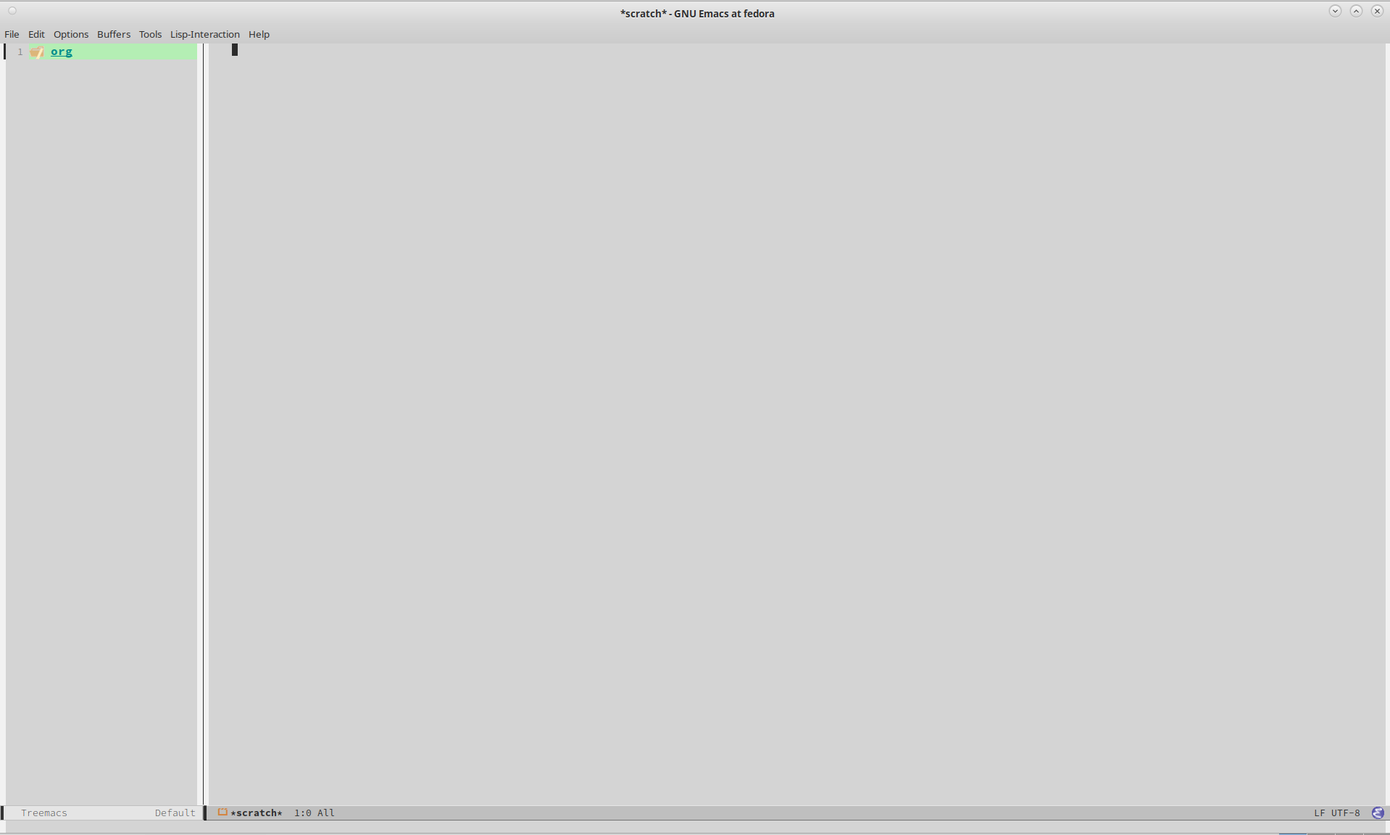
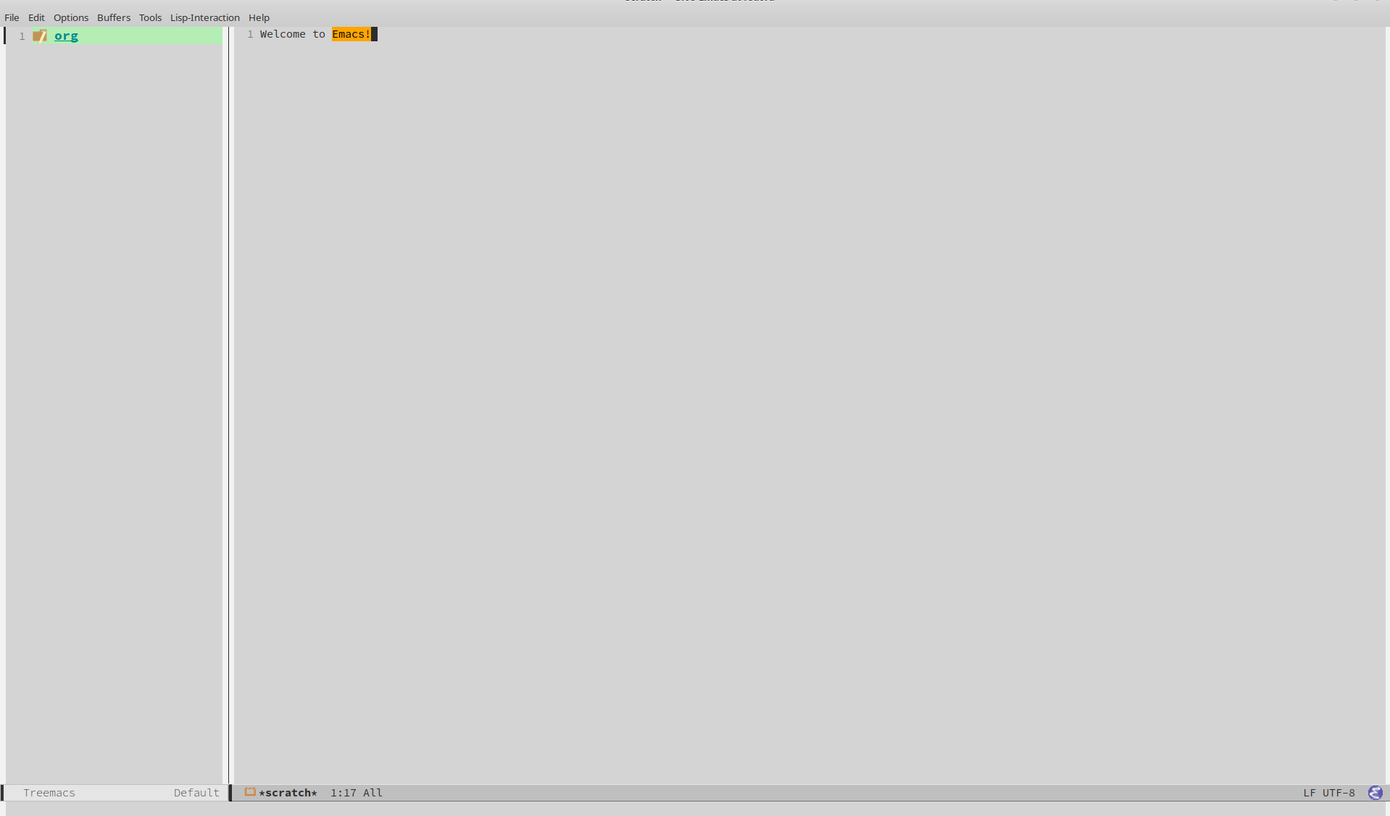
More images

Changed region(s): [[0.0, 0.0, 1.0, 1.0], [0.4307, 0.0, 0.5537, 0.0311], [0.9844, 0.0311, 1.0, 0.0622]]

diff --git a/README.md b/README.md
@@ -1,30 +1,30 @@
 
 # Table of Contents
 
-1.  [Welcome New Org Mode Users](#orgc13201f)
-2.  [What Is This And Why Do I Need It?](#org4c54fc1)
-3.  [About This Repo](#orga9b44a5)
-    1.  [Overview](#orga7ddfc7)
-    2.  [Installation](#org2403acc)
-4.  [I've Installed It, Now What?](#org8bff8c2)
-    1.  [An Intro to this Org Mode Tutorial](#org8114e12)
-    2.  [Tracking Work with TODOs](#orgacaafd9)
-    3.  [Understanding the Agenda](#org589d1c5)
-    4.  [Using Capture Templates](#org14909b1)
-5.  [A Practical Walkthrough](#orgbcc884e)
-    1.  [Monday Morning Meeting](#org4fe37b4)
-    2.  [Filling in the Action Items](#orge64c50b)
-    3.  [View the Agenda](#org8235d22)
-    4.  [Start Working on TODO #1](#orga0489b3)
-    5.  [Start Working on TODO #2](#org983779b)
-    6.  [Start Working on TODO #3](#org1244139)
-    7.  [A New TODO](#org79e86c5)
-    8.  [Working the TODO](#org31f0052)
-    9.  [Make a note](#orgc3407b4)
-    10. [Record a journal entry](#orgb1331c8)
-    11. [Filtering Tags](#org4d624ff)
-6.  [Keyboard Shortcuts List](#org520e9c1)
-7.  [Beyond This Tutorial](#org0ea5ce4)
+1.  [Welcome New Org Mode Users](#orgc60bfa3)
+2.  [What Is This And Why Do I Need It?](#orgc4ba2a9)
+3.  [About This Repo](#org6842482)
+    1.  [Overview](#org6cf865a)
+    2.  [Installation](#orgff0b7ff)
+4.  [I've Installed It, Now What?](#org43669fc)
+    1.  [An Intro to this Org Mode Tutorial](#org811547a)
+    2.  [Tracking Work with TODOs](#org5774640)
+    3.  [Understanding the Agenda](#org3a63073)
+    4.  [Using Capture Templates](#org36f1d25)
+5.  [A Practical Walkthrough](#orgcdb89fc)
+    1.  [Monday Morning Meeting](#org58a7ac1)
+    2.  [Filling in the Action Items](#orgb0220d9)
+    3.  [View the Agenda](#org3e6166e)
+    4.  [Start Working on TODO #1](#org161807e)
+    5.  [Start Working on TODO #2](#org2d9233b)
+    6.  [Start Working on TODO #3](#org02755e1)
+    7.  [A New TODO](#orge287266)
+    8.  [Working the TODO](#org5424305)
+    9.  [Make a note](#orgedbc619)
+    10. [Record a journal entry](#orgbf6d813)
+    11. [Filtering Tags](#orgf3669fe)
+6.  [Keyboard Shortcuts List](#org6b70fb6)
+7.  [Beyond This Tutorial](#org3f2c726)
 
 ****Quick Start Guide****
 
@@ -36,7 +36,7 @@ For more details see below, but this is the minimum you need to make this work.
 4.  You are done, now restart `emacs` and take a look at the shortcut guide below
 
 
-<a id="orgc13201f"></a>
+<a id="orgc60bfa3"></a>
 
 # Welcome New Org Mode Users
 
@@ -45,7 +45,7 @@ So you want to use Org Mode, but you don't have 2 years to devote to teaching yo
 If you came here looking for a more in depth explanation of some of Org Mode's core features, please check out the very detailed write up I did in my [Emacs Org Mode Tutorial](https://github.com/james-stoup/emacs-org-mode-tutorial/). For the new people, you don't need to read that document (it is huge and can be daunting) as it is designed for people who want to really customize their Org Mode configurations. However, it does provide a lot of useful explanations with screenshots, so maybe come back to it once you've gotten some more experience with Org Mode.
 
 
-<a id="org4c54fc1"></a>
+<a id="orgc4ba2a9"></a>
 
 # What Is This And Why Do I Need It?
 
@@ -56,14 +56,14 @@ The good news is that Org Mode "just works" right out of the box. The bad news i
 I sent them the link I put above so they could check out my tutorial on designing your Org Mode configuration from scratch, but they didn't want that. In fact, they had no idea what they wanted. The only thing they were sure of was that they wanted it to be functional now. Not in a year, not after they had learned lisp, right now. So what I did was massively pare down my own Emacs configuration until it was a lean setup geared entirely towards Org Mode. No code completion, language servers, linters, git integration, or anything else that wasn't directly related to Org Mode. Then I further cleaned it up to make it as easy to use as possible. Finally, I helped them install this new config and gave them some minimal instructions on how to use it. Guess what? They loved it. And based on their response I realized that there were probably a lot of people who would appreciate a little help getting started with Org Mode. So if that is you, I think this repo might help you.
 
 
-<a id="orga9b44a5"></a>
+<a id="org6842482"></a>
 
 # About This Repo
 
 This repo is designed to help brand new Emacs users become productive in Org Mode. This is not an Emacs tutorial, nor is it meant as an all encompassing Org Mode tutorial. I will explain all the basic key commands you will need to get started, but this is not a substitute for reading the [Official Org Mode Manual](https://orgmode.org/manual/).
 
 
-<a id="orga7ddfc7"></a>
+<a id="org6cf865a"></a>
 
 ## Overview
 
@@ -93,21 +93,21 @@ Here is a list of most of the primary enhancements provided:
 -   better bullets
 
 
-<a id="org2403acc"></a>
+<a id="orgff0b7ff"></a>
 
 ## Installation
 
 To make your version of Emacs and Org Mode look like the screenshots below, download the `.emacs` file in this repo and either copy it into your existing `.emacs` file or overwrite it entirely. Then restart Emacs, open (or create) an Org file and you should a much nicer looking version of Org. To verify Org looks different you can download the `org-better-defaults.org` file in this repo and open it.
 
 
-<a id="org8bff8c2"></a>
+<a id="org43669fc"></a>
 
 # I've Installed It, Now What?
 
 If you've already installed the config file and restarted Emacs, then it is time to begin your journey into productivity! Here are your next steps. First, finish reading this section so you understand the broad concepts that will be discussed here. Then, once you have a rough idea of the concepts, work your way through the tutorial so you can understand how someone might apply those concepts to real world tasks.
 
 
-<a id="org8114e12"></a>
+<a id="org811547a"></a>
 
 ## An Intro to this Org Mode Tutorial
 
@@ -122,7 +122,7 @@ To start off we are going to talk briefly about the three core concepts that mak
 Each of these topics will be covered below in more detail and by the end of this document, you should have a good idea of how to use the basics of Org Mode.
 
 
-<a id="orgacaafd9"></a>
+<a id="org5774640"></a>
 
 ## Tracking Work with TODOs
 
@@ -142,7 +142,7 @@ Here is what it looks like with the Org Mode Better Defaults:
 ![better defaults](images/image-5-better-defaults.png)
 
 
-<a id="org589d1c5"></a>
+<a id="org3a63073"></a>
 
 ## Understanding the Agenda
 
@@ -150,12 +150,12 @@ The agenda is a way of viewing all of your TODOs in one easy to read view. The a
 
 Here is an example of the agenda in action.
 
-<pic of the agenda view>
+![agenda view](images/image-11-agenda-view-small.png)
 
 To bring up the Agenda hit `C-c a` and then select the agenda view you want to use. To follow along with this tutorial, use the `Daily Agenda and All TODOs` option by typing `d` at the agenda prompt. Don't worry if this doesn't seem to make sense right now. This section only contains brief explanations of what the core concepts, not a detailed breakdown of every feature. In the Practical Walkthrough section below all of the steps needed to interact with Org Mode will be clearly labeled so that even a total novice can use it.
 
 
-<a id="org14909b1"></a>
+<a id="org36f1d25"></a>
 
 ## Using Capture Templates
 
@@ -173,7 +173,7 @@ Welcome to Capture Templates. This is a built-in way of bringing up a list of te
 Each one captures a specific type of data into a different org file. To access a capture template first press `C-c c` to bring up the list of available templates. Then press the letter designating the template you want to launch. The shortcut letters are shown beside their template in the list above.
 
 
-<a id="orgbcc884e"></a>
+<a id="orgcdb89fc"></a>
 
 # A Practical Walkthrough
 
@@ -183,10 +183,10 @@ In this example scenario it is Monday morning and you are about to have a meetin
 
 To start this tutorial just launch Emacs. You don't have to open a specific file because the Org Mode Capture Template can be invoked from anywhere. Once you launch Emacs you will see two panes in the window. On the left you will Treemacs showing you a folder named `org` and on the right you will see the `*scratch*` window with the message "Welcome to Emacs!" Click in that pane. This is where you will be doing most of your interaction for this tutorial.
 
-<FRESH EMACS INSTALL PIC>
+![fresh install](images/image-6-blank-slate.png)
 
 
-<a id="org4fe37b4"></a>
+<a id="org58a7ac1"></a>
 
 ## Monday Morning Meeting
 
@@ -194,11 +194,11 @@ It is Monday morning and you are about to join a meeting with your boss along wi
 
 Start by pressing the `Control` key and then while you are still pressing it, press the `c` key. Release both keys. Once you do that, press the `c` key again. This will launch the Capture Template. To make reading this easier, future key combinations will be represented in the standard Emacs form. In this case, the key combination would be written as `C-c c` which is read as "press Control and c, then release both keys, then press c".
 
-<CAPTURE TEMPLATE PIC>
+![the capture template](images/image-7-capture-template.png)
 
 Once you have launched the Capture Template you will be given a choice of four templates to choose from. Since we want to create a new meeting item, press the `m` to select a new Meeting. Once you do this you will notice a strange looking Meeting template appear and the mini buffer will become active with the label `Tags:`. For this example just type in `planning` and hit return.
 
-<INTERMEDIATE CAPTURE TEMPLATE PIC>
+![setting tags for a new meeting](images/image-8-new-meeting.png)
 
 At this point you will see an empty (but properly formatted) meeting template with the cursor located at the top heading. Enter a title for your meeting. Since this is a planning meeting let's call it `Purchase planning`. After that you see a dash under the heading `Attendees`. Put your cursor on that line and enter the name of the person leading the meeting, which would be your boss, Alice. After you type `Alice` press return and you will notice another dash has appeared. Go ahead and type `Bob` and hit return. Round out the list with your final coworker `Carla` and then hit return twice to stop making a list.
 
@@ -207,7 +207,7 @@ Now the meeting has started so navigate to the `Notes` section and begin filling
 At the end of the meeting Alice tasks you with getting the numbers from Bob and Carla, checking our available funds, and writing up a recommendation to her by 11am Thursday morning. Now that we know what our tasking is, we need to decide how we should store this info. Thankfully our meeting template has one more heading, `Action Items`! Action Items are tasks that get assigned to us in meetings. Not every meeting will produce Action Items, so for those that don't we can just delete those lines before we save our meeting.
 
 
-<a id="orge64c50b"></a>
+<a id="orgb0220d9"></a>
 
 ## Filling in the Action Items
 
@@ -217,42 +217,56 @@ For the next TODO type `C-return` to start a new heading and then type in `TODO 
 
 Once again type in the TODO template that you used for the previous item. The title of this TODO will be `Compile results and send final report to Alice`. Hit return to get to the details of this TODO and add the lines `Collect all relevant data, summarize it, add my recommendations, and then email it to Alice before 11am on Thursday.` By the end you should have something that looks like this:
 
-<PIC OF MEETING BEFORE FILING>
+![filling out the meeting](images/image-9-filling-out-a-meeting.png)
 
 Now that all the action items have been finished and the meeting is over, we can save this meeting. To do that hit `C-c C-c` and it will file it away. Once you do that you will see a new file appear underneath the org folder on the left. This new file called `meetings.org` was created when you saved your new meeting.
 
 
-<a id="org8235d22"></a>
+<a id="org3e6166e"></a>
 
 ## View the Agenda
 
-At this point we have created a meeting and 3 TODOs, which means our Agenda View will now have something to display. Let's open up the Agenda View and see what it looks like. To launch the Agenda hit `C-c a` to bring up the Agenda selector and then press `d` to activate the Daily Agenda view. Your screen should now look like this:
+At this point we have created a meeting and 3 TODOs, which means our Agenda View will now have something to display. Let's open up the Agenda View and see what it looks like. To launch the Agenda hit `C-c a` to bring up the Agenda selector.
 
-<DAILY AGENDA AND ALL TODOS PIC>
+![agenda launcher](images/image-10-agenda-launcher.png)
 
-As you can see, the new TODO items we just created are there. Click into the Agenda view and move your cursor onto the line with your first TODO like so:
+Press `d` to activate the Daily Agenda view. Your screen should now look like this:
 
-<PIC OF CURSOR ON AGENDA>
+![agenda view](images/image-11-agenda-view.png)
 
-Once it is there, hit the `TAB` key and it should jump you to the source of the TODO. Any item in the Agenda view can always be followed back to its source. Remember, the Agenda View isn't really for editing things, it just compiles a list of things that already exist.
+As you can see, the new TODO items we just created are there. Click into the Agenda view and move your cursor onto the line with your first TODO. Once it is there, hit the `TAB` key and it should jump you to the source of the TODO.
+
+![agenda in use](images/image-12-agenda-in-use.png)
+
+Any item in the Agenda view can always be followed back to its source. Remember, the Agenda View isn't really for editing things, it just compiles a list of things that already exist.
 
 You might be wondering where the meeting you just created is. After all, you see the 3 action items, but where is the meeting that you were just in? Well, the meeting won't show up by default for reasons that you don't care about right now. However, there is a really useful setting we can turn on to show extra details. Navigate to the `Week-agenda` and put your cursor anywhere within the calendar. This won't work if your cursor is in the TODO sections as this is strictly a calendar setting. Once there, hit `v` to bring up the View options in the mini buffer. We want to enable the log view, so to do that, hit the `l` key. Now we see our meeting~ And as a bonus we also see the time we spent in this meeting. When you first started the capture template for the meeting a clock was started. When the meeting was saved (or filed) the clock stopped and the elapsed time was computed. The agenda view can then take this info and display it in a nicely formatted view. This is especially helpful when you have a week full of meetings. You can see at a glance how much time you spent in meetings and what those meetings involved. Hitting the `tab` key when on the same line as a meeting will take you to that entry.
 
 
-<a id="orga0489b3"></a>
+<a id="org161807e"></a>
 
 ## Start Working on TODO #1
 
-You should now have 3 different TODOs to visible in your Agenda. Let's start with the first one, requesting info from Bob. If it isn't open already, go ahead and open up the `meetings.org` file and navigate to the first TODO. Right now it is still in the `TODO` state, but since we are now working it, we need to change it's state. While your cursor is on that TODO heading (it can be anywhere on the line) hit `C-c C-t` to change the state. The mini buffer will pop up and give you a bunch of options you can change it to. In our case we want to set it to `IN-PROGRESS` so hit the `i` key. When that happens a new buffer will appear asking you to insert a note for the state change. At the prompt enter the text `Reaching out to Bob first` and hit `C-c C-c` to save the note.
+You should now have 3 different TODOs to visible in your Agenda. Let's start with the first one, requesting info from Bob. If it isn't open already, go ahead and open up the `meetings.org` file and navigate to the first TODO. Right now it is still in the `TODO` state, but since we are now working it, we need to change it's state. While your cursor is on that TODO heading (it can be anywhere on the line) hit `C-c C-t` to change the state. The mini buffer will pop up and give you a bunch of options you can change it to. In our case we want to set it to `IN-PROGRESS` so hit the `i` key.
+
+![changing from TODO to IN-PROGRESS](images/image-13-changing-todo-state.png)
+
+When that happens a new buffer will appear asking you to insert a note for the state change. At the prompt enter the text `Reaching out to Bob first` and hit `C-c C-c` to save the note.
+
+![adding a state change note](images/image-14-adding-state-change-note.png)
 
 Once you do this you should be returned to your original buffer where you can see that the TODO named `Get current stock levels from Bob` looks a lot different now. The state has changed from `TODO` to `IN-PROGRESS`, there is a timestamp denoting the state change, and now your note appeared too. Let's add some more details by navigating to the end of this TODO and hit return twice. On this new line we can add more notes. So enter our latest note `Emailed Bob and requested more info.` which describes the work we are doing. For the sake of this example we are going to assume you then opened up your company's email client and sent Bob an email asking for the specific data you needed for your report.
 
+![working TODO 1](images/image-15-work-in-progress.png)
+
 So far so good. We are making progress! Alas for us we get an auto generated email from Bob alerting us to the fact that Bob is out for the rest of the day due to a medical procedure. Since he won't return until tomorrow, we can't do anything else on this front. That shouldn't be a big problem though, since it is only Monday, he will be back on Tuesday, and the report is due Thursday, we still have time. Before we move on to another TODO item, we should really mark this to indicate what happened. To do that put your cursor back on the `IN-PROGRESS` line and hit `C-c C-t` to bring up the state change buffer. Now we are going to hit `b` to set it to blocked. Once again a we are going to add a note to describe this state change. So add the text `Bob is out of the office until tomorrow` and then hit `C-c C-c` to save it. Now our task is set to `BLOCKED` and we have a nice note describing why.
+
+![blocked by Bob](images/image-16-blocked-by-bob.png)
 
 If you click in the Org Agenda pane on the right and then press `r` it will refresh your view. Doing so will now show that your first TODO is blocked while the others remain in their default state. Since we can't do anything more here, let's move on to our next TODO item.
 
 
-<a id="org983779b"></a>
+<a id="org2d9233b"></a>
 
 ## Start Working on TODO #2
 
@@ -260,16 +274,26 @@ We hit a dead end on our first TODO so now we are moving on to the second task. 
 
 As we did before, navigate to the end of the body of this TODO, it return twice, and update it with what you are currently doing. Here we could add something like `Emailing Carla for her data while I wait for Bob to get back to me.` which summarizes the steps you are taking. Once again we assume that you contacted Carla over your company's email system and requested the information you require. However this time we are in luck because Carla responds fairly quickly with a link to the company's intranet where the data you want is stored. You click on the link, view the data, extract what you need, and add it to the Word document you working on. Of course, you could write everything in Org Mode and then export it to one of a dozen formats (and in fact this is what I do for my job) but for beginners I would use Org to track my notes and then something like Word to format the actual document.
 
+![adding a link to a TODO](images/image-17-link-to-doc.png)
+
 It is important to note that Carla sent us a very important piece of information (the URL to the document) that is only contained in her email. While this is fine for today's task, this might be a document we want to reference later. We could save it to our local file system, bookmark it in our browser, or flag the email, but all of those solutions lack context. It is incumbent on you to remember the details of why you have this file saved. We could just copy and past the URL into our notes, but there is a better solution.
 
 The URL in question is `http:intranet.company.com/financial/reports/Q3-reports.xls` and we want to save this to our current TODO. Start by copying the URL and then navigating to the end of the TODO. Hit return twice to start a new line and then type `C-c C-l` to create a new link. The mini buffer will appear with link options, but you are going to type `C-y` to paste your copied URL in. Once it is pasted, hit return. Now the mini buffer will prompt you to enter a description. Here you can type `Intranet link to Carla's planning document` and hit return. This is now a functioning URL that can be clicked on to open the link in your default web browser.
 
 Since Carla has responded with the information we needed and we logged the results of that conversation, this TODO is complete. All we should have to do is mark it as `DONE` and we can move to something else. To mark it as done go to the `IN-PROGRESS` line and hit `C-c C-t` to open up the state selector. From here type `d` to select done. Enter a note such as `Got everything I needed from Carla` and then hit `C-c C-c` to save it.
 
-At this point if you look in the Agenda view you will see your 1st TODO that is blocked and your 3rd TODO that you haven't started, but where is your 2nd TODO? The completed item is there, it just isn't shown by default. Move your cursor to somewhere in the Calendar (it won't work if you are in one of the TODO lists) and press `v` to bring up the view buffer. From there hit `l` to enable the log view. Now you will see two things. First, you will see your TODO item that you recently completed and second you will notice that your meeting has appeared! And as a bonus, the time you spent in this meeting appears beside it. You can easily filter your meetings to see how your week looks like as well as produce reports showing how much time you spend in meetings.
+![TODO 2 is done](images/image-18-todo-2-is-done.png)
+
+At this point if you look in the Agenda view you will see your 1st TODO that is blocked and your 3rd TODO that you haven't started, but where is your 2nd TODO? The completed item is there, it just isn't shown by default. Move your cursor to somewhere in the Calendar (it won't work if you are in one of the TODO lists) and press `v` to bring up the view buffer.
+
+![agenda view options](images/image-19-agenda-views.png)
+
+From there hit `l` to enable the log view. Now you will see two things. First, you will see your TODO item that you recently completed and second you will notice that your meeting has appeared! And as a bonus, the time you spent in this meeting appears beside it. You can easily filter your meetings to see how your week looks like as well as produce reports showing how much time you spend in meetings.
+
+![detailed agenda view](images/image-20-agenda-log-view.png)
 
 
-<a id="org1244139"></a>
+<a id="org02755e1"></a>
 
 ## Start Working on TODO #3
 
@@ -280,7 +304,7 @@ Start by navigating to the third and final action item called `Compile results a
 Now that the deadline has been added go ahead and set it to `IN-PROGRESS` just like we've done twice before. Add a note of your choice explaining what you started working on. After the state has been changed we could add additional notes to this TODO that might describe the order we wanted our report to be in, a list of graphs and tables to include, or links to templates that should be used for these types of company reports. You can also make new subheadings by hitting `C=return` and then hitting `tab` to move the heading over. Subheadings should be labeled in ways that make sense to your task. You can easily rearrange headings by holding the `alt` key and pressing the `up` or `down` arrow.
 
 
-<a id="org79e86c5"></a>
+<a id="orge287266"></a>
 
 ## A New TODO
 
@@ -295,7 +319,7 @@ As soon as you save your new TODO entry a file will appear on the left hand side
 <TREEMACS AND TODO FILE PIC>
 
 
-<a id="org31f0052"></a>
+<a id="org5424305"></a>
 
 ## Working the TODO
 
@@ -312,7 +336,7 @@ Things are really starting to take shape. We now have one sub heading that track
 Additional subheadings can be created as needed to further reflect other sources, ideas, or notes you wish to take. 
 
 
-<a id="orgc3407b4"></a>
+<a id="orgedbc619"></a>
 
 ## Make a note
 
@@ -321,21 +345,21 @@ At this point in the Tutorial we have covered most of the major concepts so I'm 
 In this case start the capture template with `C-c c` and then hit `n` to create a new note. You can give it a tag, but you don't need to. For this note call it `Office Supplies`, hit return, and then add the note `The code for the supply closet is 223344`. File your note with the usual `C-c C-c` and you have created a simple note. While it is hardly as exciting as the other features we've covered, it is still a useful thing to have.
 
 
-<a id="orgb1331c8"></a>
+<a id="orgbf6d813"></a>
 
 ## Record a journal entry
 
 Lastly we are going to cover the journal entry capture template. This feature is meant to be a quick and easy way to log accomplishments at your job. If you find it useful consider looking up some of the Org Mode journal packages that offer more features. But for this case, this is meant as a very simple solution that allows you to jot down what you are doing on any given day. You can add as little or as much detail as you want. The goal is only to have an easy to reference record of what you do each day on the job. I personally have found this to be very useful at the end of the year when writing up my accomplishments for a performance review. It is very helpful to see what I've done throughout the year. 
 
 
-<a id="org4d624ff"></a>
+<a id="orgf3669fe"></a>
 
 ## Filtering Tags
 
 So far we have only talked about creating content in Org Mode and then viewing it in the Agenda. However, the Agenda View has quite a bit of hidden functionality that we never talked about. For example, it has a very nice filtering capability. To filter your TODOs by tag you would navigate to the Agenda View and type `/` followed by the tag you wished to search for. If you wanted to reset the Agenda View and clear the search you would type `|`. The Agenda supports some very advanced filtering options which is far beyond the scope of this simple tutorial, but I encourage you to checkout the Org Manual's page on [filtering/limiting agenda items](https://orgmode.org/manual/Filtering_002flimiting-agenda-items.html).
 
 
-<a id="org520e9c1"></a>
+<a id="org6b70fb6"></a>
 
 # Keyboard Shortcuts List
 
@@ -465,17 +489,11 @@ The second way of activating a task is to call the function directly. To do this
 </table>
 
 
-<a id="org0ea5ce4"></a>
+<a id="org3f2c726"></a>
 
 # Beyond This Tutorial
 
 I hope you found this simple tutorial useful. Emacs and Org Mode combine to make a very versatile piece of software that has many unique uses. I encourage everyone who finds this interesting to explore more of Org Mode's functionality. This tutorial only touched on the very basics so as not to overwhelm new users, but if this interests you, please keep digging. There are still so many secrets to find!
 
 Likewise I want to stress to all new users that everything contained in this repo is just one way you can use Org Mode to organize your life. This isn't the **right** way because there is no universal **right** way, only a way that works for you. If you find some of these features useful but not others, then only use what you want. If you want to tweak the configurations listed here to better suite your tastes, then do so with my blessing. I sincerely hope that this software improves your life to the same degree it has improved mine. With that I leave you to go forth and do great things.
-
-include notes on A,B, and C levels of importance!
-
-include note about comment tags and how to activate them
-
-include a suggestion for my favorite dark mode theme
 
